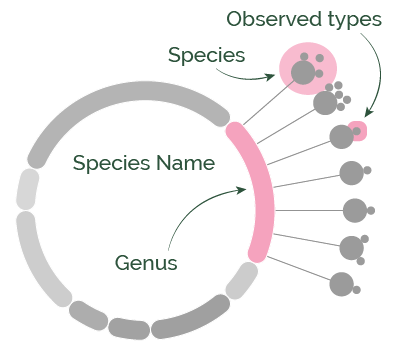
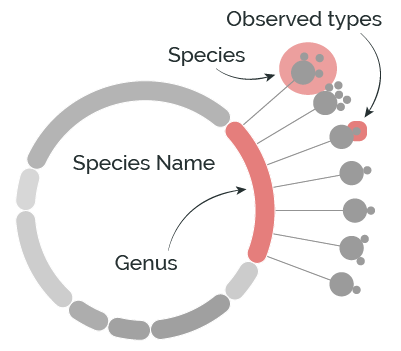
colors fixed

diff --git a/index.html b/index.html
@@ -29,11 +29,11 @@
           <h1>Porings</h1>
           <h2>Visual Analysis of Poring-like Creatures from Ragnarok Online</h2>
           <p class='intro'> Porings are gelatinous monsters from Ragnarok Online.
-            For many players, small pink cute porings are the first monsters that they encounter in the game.
-            It appears that there are many other porings scattered around the world of Rune Midgard.
-            Moreover, although a few monsters bear other names, they look quite similar to porings in some way.
-            So far, creatures of the poring family could be described as drop-shaped (to some degree) and
-            moving by bouncing. However, the poring species drastically vary in their behavour and characteristics.
+            For many players, small pink cute porings are the first creatures that they encounter in the game.
+            But it appears that there are many other porings scattered around the world of Rune Midgard.
+            Although a few monsters bear other names, they look quite similar to porings in some way.
+            So far, poring-like creatures may be described as drop-shaped (to some degree) and
+            moving by bouncing. However, the poring species drastically vary in their behaviour and characteristics.
           </p>
         </div>
         <div class="distDiagram-wrapper">
@@ -152,12 +152,16 @@
           Maximum Spell Points (stamina), Attack Power (Atk), Magical Attack Power (MAtk), Degence (Def), Magical
           Degence (MDef), Accuracy, Dodge, Attack Speed etc.
           <br><br>
-          The derived stats are direct measures of combat abilities and, therefore, couldn't be ignored. 
+          The derived stats are direct measures of combat abilities.<br> 
           The diagram represents a basic rough model of a monster where the key variables are displayed: 
           defense,attack, and health (hit points, HP).<br>
           Because attack power is usually somehow distributed between minimal and maximal limits,
           it is shown as an outer arc of variable thickness. In this regard, the defense is more straightforward: just one number shows a creature's 'toughness' against damage.
           Defense intensity is also represented as an arc but growing inwards from borders. Health levels are denoted by central circles.
+          <br><br>
+          The charts presented on this page give approximation of creatures' characteristics and should not be used as a reference.
+        
+        
         </div>
       </div>
 

diff --git a/code/main.css b/code/main.css
@@ -3,6 +3,7 @@ body {
   padding: 0;
   font-family: "Raleway", sans-serif;
   font-size: 14px;
+  color: #315659;
   /* background: rgb(255, 223, 228);  */
   /* #fac7c2; */
   width: 100%;
@@ -20,24 +21,28 @@ h1 {
   font-family: "Montserrat", sans-serif;
   font-weight: 800;
   font-size: 42px;
-  color: #324e3d;
+  color: #253031;
+   /* #324e3d; */
   margin-top: 0;
 }
 
 h2 {
   font-weight: 400;
   font-size: 22px;
-  color: #2d533c;
+  color: #253031;
+  /* #2d533c; */
   /* grey; */
 }
 
 h3 {
-  color: #2d533c;
+  color: #253031;
+   /* #2d533c; */
   /* grey; */
 }
 
 .header-wrapper {
-  background: rgb(255, 223, 228);
+  background: #f7d8d8;
+  /* #ffdfe4;  */
   /* rgb(240, 201, 214); */
   /* rgb(255, 223, 228); */
   /* #fadfe5; */
@@ -74,8 +79,12 @@ h3 {
   width: 400px;
   margin: 0 auto;
   /* display: inline-block; */
-
 }
+
+#distDiagram-container text{
+  fill: #315659;
+}
+
 
 .distButtons-wrapper {
   vertical-align: bottom;
@@ -85,7 +94,8 @@ h3 {
 
 .distButtons-wrapper span {
   display: block;
-  color: #629677;
+  color: #315659;
+  /* #629677; */
   font-size: 80%;
   /* margin-top:50px; */
 }
@@ -93,7 +103,7 @@ h3 {
 
 .intro {
   font-weight: 400;
-  color: #629677;
+  /* #629677; */
   line-height: 1.5em;
   font-family: "Raleway", sans-serif;
   /* grey; */
@@ -127,7 +137,7 @@ input {
 }
 
 input:checked {
-  border: 6px solid #2d533c;
+  border: 6px solid #315659;
   /* black; */
 }
 
@@ -153,7 +163,7 @@ input:checked {
   padding: 0 30px 0 50px;
   box-sizing: border-box;
   vertical-align: bottom;
-  color: #2d533c;
+  /* #2d533c; */
 
 }
 
@@ -310,7 +320,6 @@ input:checked {
   background-color: rgb(228, 228, 228);
   padding: 50px;
   font-weight: 400;
-  color: #2d533c;
   line-height: 1.5em;
   font-family: "Raleway", sans-serif;
 }
